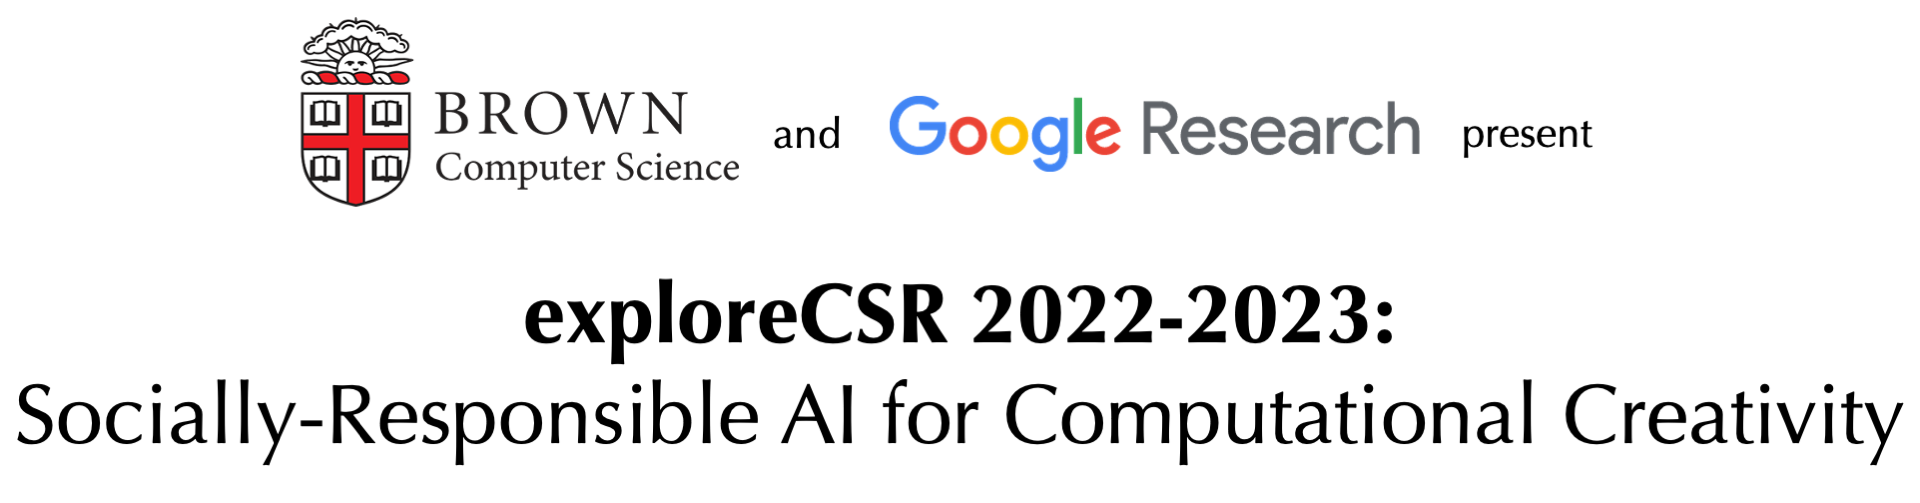
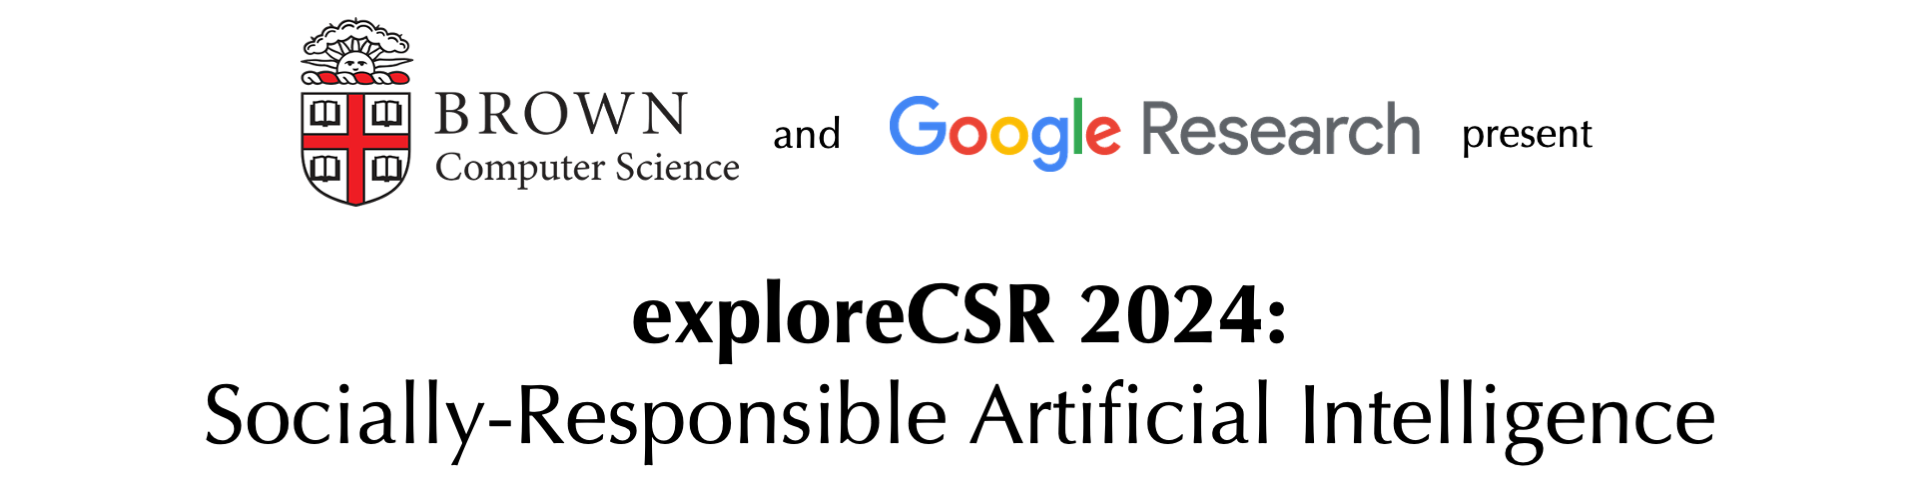
Update AI page for 2024.

Changed region(s): [[0.0, 0.7455, 1.0, 0.9245], [0.25, 0.5368, 0.75, 0.7157]]

diff --git a/ai/index.html b/ai/index.html
@@ -48,13 +48,13 @@ layout: default
     <p>
         <!-- Introduction to the program topic, why we're running this program, who it's for. -->
         Artificial intelligence is often in the news for the wrong reasons: privacy-penetrating surveillance systems, "deepfakes," racial bias in predictive policing, and more.
-        All hope is not lost, though: when used in a socially responsible manner, AI can be used for good.
-        For example, it can be used to augment the creative capabilities of people, a process often called <i>computational creativity</i>.
-        Creating images, 3D models, writing, games: in these domains and more, AI is offering new and exiting ways for people to realize their creative visions.
+        But when used in a socially responsible manner, AI can be used for good: robotic assistants for people with physical disabilities; tools to help people express their creative visions; systems that help people improve their physical and mental wellbeing; and more.
+        <!-- For example, it can be used to augment the creative capabilities of people, a process often called <i>computational creativity</i>.
+        Creating images, 3D models, writing, games: in these domains and more, AI is offering new and exiting ways for people to realize their creative visions. -->
     </p>
 
     <p>
-        Brown CS is proud to partner with Google Research to offer <i>exploreCSR: Socially-Responsible AI for Computational Creativity</i>, a semesterlong immersive research experience program for undergraduate students which focuses on exactly these subjects.
+        Brown CS is proud to partner with Google Research to offer <i>exploreCSR: Socially-Responsible Artificial Intelligence</i>, a semesterlong immersive research experience program for undergraduate students which focuses on exactly these subjects.
         We encourage students from historically-underrepresented groups within computer science to apply, which includes, but is not limited to, students that identify as women, underrepresented minority (URM), first-generation college, low-income, and/or LGBTQ+. No prior research experience required!
         Our goal is to expose students to what computing research can look like, to help them build self-efficacy and practical research skills, and to encourage them to pursue graduate studies in computer science. We are especially interested in applicants from colleges and universities that do not already offer extensive research opportunities.
     </p>
@@ -67,23 +67,26 @@ layout: default
     </div>
     <!-- How long it is, what students are expected to do, mentorship structure, stipends, etc. -->
     <p>
+        <b>Requirement:</b> Research is a time-consuming endeavor; to make sure that participants have enough time for it during their semester, we require them to obtain independent study credit at their home institution for participating in our program. Most colleges/universities will have courses you can enroll in for this purpose (in the Brown CS department, this is CS 1970). However, not all colleges/universities will allow you to enroll in this course if your research supervision is at a different institution. Please verify that this is allowed at your institution before applying.
+    </p>
+    <p>
+        <b>Time commitment:</b> The program runs roughly the duration of Brown's spring 2023 semester: January through May. We expect research group meetings, mentor meetings, and project work to take a minimum of 5 hours per week. 
+    </p>
+    <p>
         <b>Who can apply:</b> Current undergraduate students (including graduating seniors) attending college at an instituion in one of the following US states/territories: Washington DC, Virginia, Maryland, Delaware, Pennsylvania, New York, New Jersey, Rhode Island, Massachusetts, Connecticut, Vermont, New Hampshire, and Maine. Most program activities are virtual, but we are planning a couple of in-person visits (the travel costs for which we will cover).
     </p>
     <p>
         <b>Experience needed:</b> Prospective students should have completed an introductory computer science course sequence. Coursework in calculus, linear algebra, and probability are also helpful but not strictly required. No prior research experience necessary!
     </p>
     <p>
-        <b>Research activities:</b> Participants will be paired with a faculty mentor and a graduate student mentor who will help guide them through a semester-long research project. There are multiple project options, depending on the experience level and time commitment of each student. These include literature reviews, project proposals, replications of prior work, apprenticeships with existing research projects at Brown, or new independent research projects. The program culminates with participants presenting their work at the Brown CS Undergraduate Research Symposium in late May. Throughout the semester, participants will be full members of a research group at Brown, with access to lab meetings, Slack channels, etc.
+        <b>Research activities:</b> Participants will be paired with a faculty mentor and a graduate student mentor who will help guide them through a semester-long research project. There are multiple project options, depending on the experience level of each student. These include literature reviews, project proposals, replications of prior work, apprenticeships with existing research projects at Brown, or new independent research projects. The program culminates with participants presenting their work at the Brown CS Undergraduate Research Symposium in late May. Throughout the semester, participants will be full members of a research group at Brown, with access to lab meetings, Slack channels, etc.
     </p>
     <p>
         <b>Other activities:</b> We have numerous other activities planned to given participants a "behind-the-scenes" look at what graduate study in CS looks like. These include panels on demystifying the graduate application process, Q&A's with current grad students and alumni, attendance at Brown CS lab meetings, and observing formal graduate student presentations such as thesis proposals and defenses.
     </p>
-    <p>
-        <b>Time commitment:</b> The program runs roughly the duration of Brown's spring 2023 semester: January through May. We expect research group meetings, mentor meetings, and project work to take a minimum of 5 hours per week. 
-    </p>
-    <p>
+    <!-- <p>
         <b>Stipend:</b> We recognize that participating in this program takes time. To help offset this opportunity cost, each participant will receive a $300 stipend.
-    </p>
+    </p> -->
     
 </div>
 
@@ -220,10 +223,10 @@ layout: default
         <div class='mainheader'>How to Apply</div>
     </div>
     <p>
-        To apply for the 2022-2023 program, fill out the <a href='https://forms.gle/tqMq1vNWEzZUMFpf7'>online application form</a>.
+        To apply for the 2024 program, fill out the <a href='https://forms.gle/xR5tbSS8e3gVVXST7'>online application form</a>.
     </p>
     <p>
-        The application deadline is December 1 2022.<br>
+        The application deadline is December 8 2023.<br>
     </p>
 </div>
 
